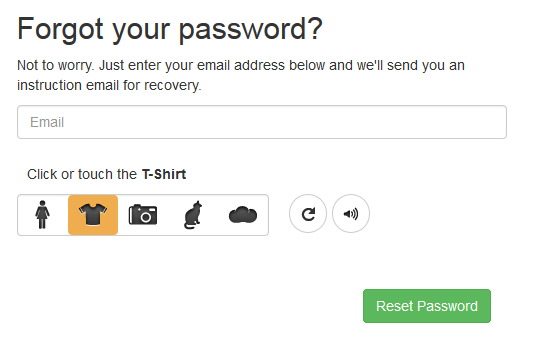
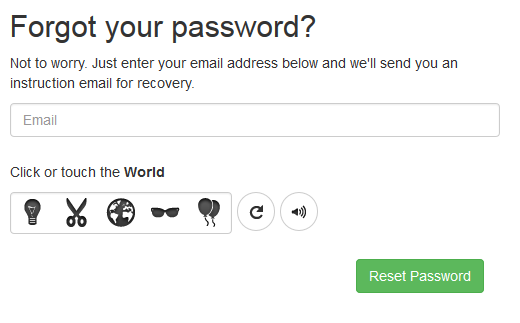
Language file added.

Changed region(s): [[0.0, 0.031, 0.9231, 0.4025], [0.0, 0.4644, 0.6462, 0.7121], [0.6462, 0.805, 0.9538, 0.9288]]

diff --git a/e_module.php b/e_module.php
@@ -19,7 +19,7 @@
 
 	@include(__DIR__ . '/vendor/autoload.php');
 
-	e107::getOverride()->replace('secure_image::r_image', 'visualcaptcha_module::blank');
+	e107::getOverride()->replace('secure_image::r_image',   'visualcaptcha_module::blank');
 	e107::getOverride()->replace('secure_image::renderInput', 'visualcaptcha_module::input');
 	e107::getOverride()->replace('secure_image::invalidCode', 'visualcaptcha_module::invalid');
 	e107::getOverride()->replace('secure_image::renderLabel', 'visualcaptcha_module::label');
@@ -30,7 +30,7 @@
 class visualcaptcha_module
 {
 
-	function blank()
+	static function blank()
 	{
 		return;
 	}
@@ -39,7 +39,9 @@ class visualcaptcha_module
 	{
 		$form = e107::getForm();
 		$tp = e107::getParser();
-		
+
+		e107::lan('visualcaptcha', false, true);
+
 		if(e_DEBUG)
 		{
 			e107::library('load', 'visualcaptcha.jquery');
@@ -56,12 +58,12 @@ class visualcaptcha_module
 			'url'       => e_PLUGIN_ABS . 'visualcaptcha/app.php',
 			'imgCount'  => 5,
 			'language'  => array(
-				'accessibilityAlt'         => 'Sound icon',
-				'accessibilityTitle'       => 'Accessibility option: listen to a question and answer it!',
-				'accessibilityDescription' => 'Type below the <strong>answer</strong> to what you hear. Numbers or words:',
-				'explanation'              => 'Click or touch the <strong>ANSWER</strong>',
-				'refreshAlt'               => 'Refresh/reload icon',
-				'refreshTitle'             => 'Refresh/reload: get new images and accessibility option!',
+				'accessibilityAlt'         => LAN_VCAPTCHA_00, // 'Sound icon',
+				'accessibilityTitle'       => LAN_VCAPTCHA_01, // 'Accessibility option: listen to a question and answer it!',
+				'accessibilityDescription' => $tp->lanVars(LAN_VCAPTCHA_02,'<strong>answer</strong>'), // 'Type below the <strong>answer</strong> to what you hear. Numbers or words:',
+				'explanation'              => $tp->lanVars(LAN_VCAPTCHA_03,'<strong>ANSWER</strong>'), // 'Click or touch the <strong>ANSWER</strong>',
+				'refreshAlt'               => LAN_VCAPTCHA_04, // 'Refresh/reload icon',
+				'refreshTitle'             => LAN_VCAPTCHA_05, // 'Refresh/reload: get new images and accessibility option!',
 			)
 		);
 

diff --git a/languages/English/English_front.php b/languages/English/English_front.php
@@ -1,0 +1,18 @@
+<?php
+	/**
+	 * e107 website system
+	 *
+	 * Copyright (C) 2008-2016 e107 Inc (e107.org)
+	 * Released under the terms and conditions of the
+	 * GNU General Public License (http://www.gnu.org/licenses/gpl.txt)
+	 *
+	 */
+
+
+define("LAN_VCAPTCHA_00", "Sound icon");
+define("LAN_VCAPTCHA_01", "Accessibility option: listen to a question and answer it!");
+define("LAN_VCAPTCHA_02", "Type below the [x] to what you hear. Numbers or words:");
+define("LAN_VCAPTCHA_03", "Click or touch the [x]");
+define("LAN_VCAPTCHA_04", "Refresh/reload icon");
+define("LAN_VCAPTCHA_05", "Refresh/reload: get new images and accessibility option!");
+define("LAN_VCAPTCHA_06", "");
